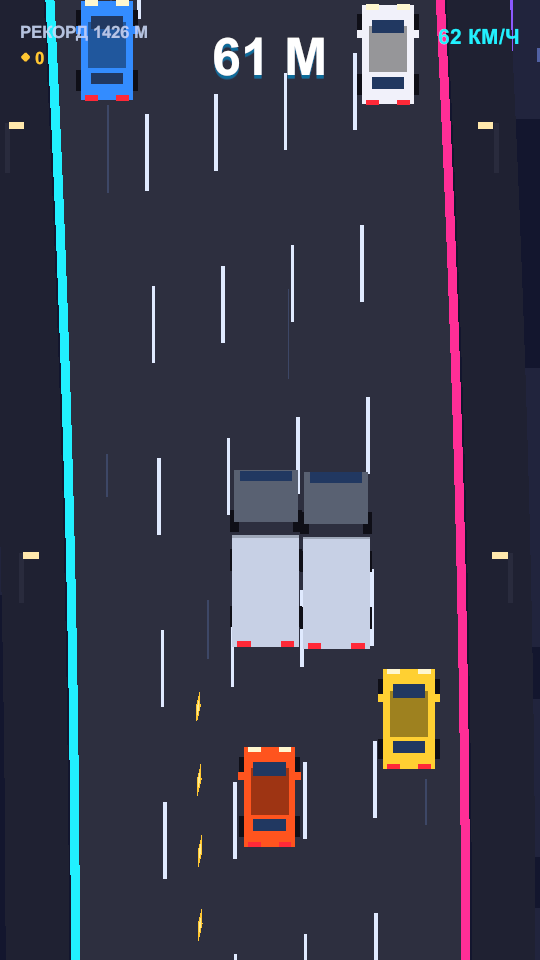
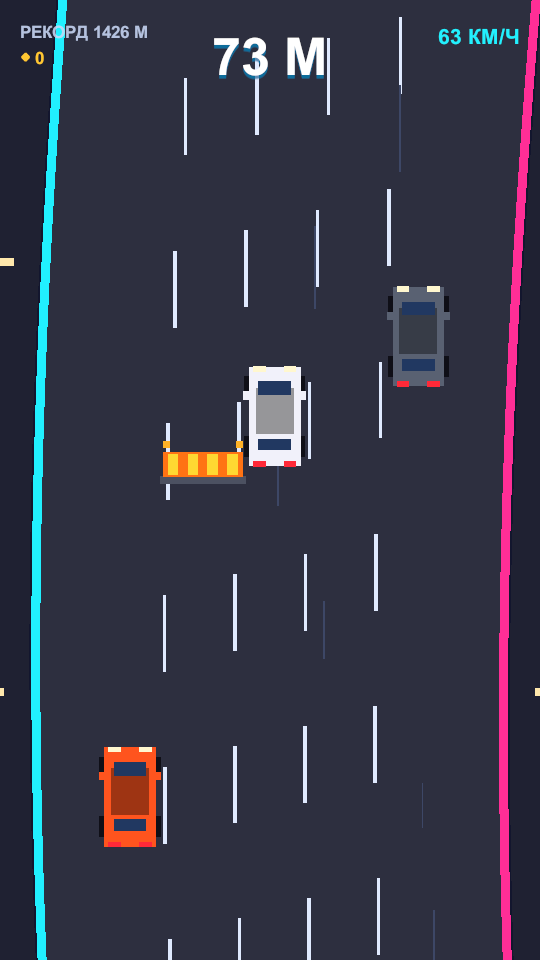
Sharper, more frequent turns and variable road width (v0.4.0)
- Curve constants raised: amplitude 2.8/1.6 -> 3.2/1.9, frequency 0.030/0.011 -> 0.045/0.019.
- Curves switched to cosines so every run starts on a straight section instead of mid-bend.
- New G2Path.ExtraHalfWidth / ExtraAtY: road half width oscillates from -0.30 to +1.10 m.
- Ribbon2D got RibbonSide (Both/Left/Right): the road widens on both edges, while curbs, neon borders and sidewalks follow their own shoulder.
- WorldScroller2D pushes roadside props (buildings, windows, neon strips, lamps) outward as the road widens.
- Camera now aims 4 m ahead and follows slightly faster, keeping sharp turns in frame.
- Version 0.4.0 (code 4); README and screenshots updated.

diff --git a/Assets/FiveLineRace/Scripts/G2World.cs b/Assets/FiveLineRace/Scripts/G2World.cs
@@ -18,14 +18,18 @@ namespace FiveLineRace
             G2Quad.Create(root.transform, "Backdrop", 0f, 0f, 70f, 70f, G2.Night, 9f);
 
             // --- Дорога, борта и тротуары ---
-            // Это гладкие ленты: они изгибаются вслед за поворотами трассы.
-            Ribbon2D.Create(root.transform, "Road", -G2.RoadHalfWidth, G2.RoadHalfWidth, G2.Asphalt, 5.1f);
-            Ribbon2D.Create(root.transform, "SidewalkL", -5.85f, -4.45f, G2.Sidewalk, 5.3f);
-            Ribbon2D.Create(root.transform, "SidewalkR", 4.45f, 5.85f, G2.Sidewalk, 5.3f);
+            // Это гладкие ленты: они изгибаются вслед за поворотами трассы
+            // и раздвигаются, когда дорога становится шире.
+            float hw = G2.RoadHalfWidth;
+            float walk = hw + 0.05f;
 
-            float edgeX = G2.RoadHalfWidth - 0.09f;
-            Ribbon2D.Create(root.transform, "EdgeCyan", -edgeX - 0.1f, -edgeX + 0.1f, G2.Cyan, 4.95f);
-            Ribbon2D.Create(root.transform, "EdgeMagenta", edgeX - 0.1f, edgeX + 0.1f, G2.Magenta, 4.95f);
+            Ribbon2D.Create(root.transform, "Road", -hw, hw, RibbonSide.Both, G2.Asphalt, 5.1f);
+            Ribbon2D.Create(root.transform, "SidewalkL", -walk - 1.4f, -walk, RibbonSide.Left, G2.Sidewalk, 5.3f);
+            Ribbon2D.Create(root.transform, "SidewalkR", walk, walk + 1.4f, RibbonSide.Right, G2.Sidewalk, 5.3f);
+
+            float edgeX = hw - 0.09f;
+            Ribbon2D.Create(root.transform, "EdgeCyan", -edgeX - 0.1f, -edgeX + 0.1f, RibbonSide.Left, G2.Cyan, 4.95f);
+            Ribbon2D.Create(root.transform, "EdgeMagenta", edgeX - 0.1f, edgeX + 0.1f, RibbonSide.Right, G2.Magenta, 4.95f);
 
             // --- Прерывистая разметка между полосами (4 разделителя) ---
             for (int divider = 0; divider < G2.LaneCount - 1; divider++)
@@ -113,21 +117,28 @@ namespace FiveLineRace
 
     /// <summary>
     /// Бесконечная прокрутка декораций вниз (на игрока) с зацикливанием.
-    /// Каждый элемент помнит свою базовую X и смещается по кривой трассы.
+    /// Каждый элемент помнит свою базовую X и смещается по кривой трассы;
+    /// всё, что стоит за обочиной, дополнительно отъезжает при расширении дороги.
     /// </summary>
     public class WorldScroller2D : MonoBehaviour
     {
+        /// <summary>Всё, что левее/правее этой координаты, считаем придорожным.</summary>
+        const float RoadsideX = 4.5f;
+
         Transform[] items;
         float[] baseX;
+        int[] sides;
 
         public void Init(Transform[] items)
         {
             this.items = items;
             baseX = new float[items.Length];
+            sides = new int[items.Length];
 
             for (int i = 0; i < items.Length; i++)
             {
                 baseX[i] = items[i] != null ? items[i].localPosition.x : 0f;
+                sides[i] = baseX[i] > RoadsideX ? 1 : (baseX[i] < -RoadsideX ? -1 : 0);
             }
         }
 
@@ -148,7 +159,9 @@ namespace FiveLineRace
                 p.y -= dy;
                 if (p.y < G2.WrapBottom) p.y += G2.WrapLength;
 
-                p.x = G2Path.XAtY(baseX[i], p.y, travelled);
+                p.x = baseX[i]
+                    + G2Path.OffsetAtY(p.y, travelled)
+                    + sides[i] * G2Path.ExtraAtY(p.y, travelled);
                 item.position = p;
             }
         }

diff --git a/Assets/FiveLineRace/Scripts/G2Ribbon.cs b/Assets/FiveLineRace/Scripts/G2Ribbon.cs
@@ -6,30 +6,40 @@ namespace FiveLineRace
     /// Гладкая лента вдоль оси трассы: асфальт, неоновые борта, тротуары.
     /// Меш перестраивается каждый кадр и повторяет повороты дороги.
     /// </summary>
+    public enum RibbonSide
+    {
+        None,
+        Left,
+        Right,
+        Both
+    }
+
     public class Ribbon2D : MonoBehaviour
     {
         float left;
         float right;
+        RibbonSide side;
         int segments;
         Mesh mesh;
         Vector3[] vertices;
 
         public static Ribbon2D Create(Transform parent, string name, float left, float right,
-            Color color, float z)
+            RibbonSide side, Color color, float z)
         {
             var go = new GameObject(name);
             go.transform.SetParent(parent, false);
             go.transform.localPosition = new Vector3(0f, 0f, z);
 
             var ribbon = go.AddComponent<Ribbon2D>();
-            ribbon.Init(left, right, color);
+            ribbon.Init(left, right, side, color);
             return ribbon;
         }
 
-        void Init(float leftEdge, float rightEdge, Color color)
+        void Init(float leftEdge, float rightEdge, RibbonSide ribbonSide, Color color)
         {
             left = leftEdge;
             right = rightEdge;
+            side = ribbonSide;
             segments = 96;
 
             vertices = new Vector3[(segments + 1) * 2];
@@ -80,9 +90,30 @@ namespace FiveLineRace
             {
                 float y = bottom + i * step;
                 float shift = G2Path.OffsetAtY(y, travelled);
+                float extra = G2Path.ExtraAtY(y, travelled);
 
-                vertices[i * 2] = new Vector3(left + shift, y, 0f);
-                vertices[i * 2 + 1] = new Vector3(right + shift, y, 0f);
+                float lo = left + shift;
+                float hi = right + shift;
+
+                // Дорога расширяется в обе стороны, борта и тротуары — вслед за своей обочиной.
+                if (side == RibbonSide.Both)
+                {
+                    lo -= extra;
+                    hi += extra;
+                }
+                else if (side == RibbonSide.Left)
+                {
+                    lo -= extra;
+                    hi -= extra;
+                }
+                else if (side == RibbonSide.Right)
+                {
+                    lo += extra;
+                    hi += extra;
+                }
+
+                vertices[i * 2] = new Vector3(lo, y, 0f);
+                vertices[i * 2 + 1] = new Vector3(hi, y, 0f);
             }
 
             mesh.vertices = vertices;

diff --git a/Assets/FiveLineRace/Scripts/G2Game.cs b/Assets/FiveLineRace/Scripts/G2Game.cs
@@ -116,7 +116,7 @@ namespace FiveLineRace
             shake = cam.GetComponent<CameraShake2D>();
             if (shake == null) shake = cam.gameObject.AddComponent<CameraShake2D>();
 
-            camX = G2Path.Center(0f);
+            camX = CameraTarget(0f);
             shake.BasePosition = new Vector3(camX, 0f, -10f);
             cam.transform.position = shake.BasePosition;
         }
@@ -171,13 +171,22 @@ namespace FiveLineRace
             FollowCurve();
         }
 
-        /// <summary>Камера плавно едет за поворотом трассы, игрок остаётся по центру.</summary>
+        // Камера смотрит чуть вперёд по трассе: в резком повороте машина
+        // уходит к внутренней стороне, а дорога не «улетает» из кадра.
+        const float CameraLookAhead = 4f;
+
+        static float CameraTarget(float distance)
+        {
+            return G2Path.Center(distance + CameraLookAhead);
+        }
+
+        /// <summary>Камера плавно едет за поворотом трассы.</summary>
         void FollowCurve()
         {
             if (shake == null) return;
 
-            float target = G2Path.Center(Distance);
-            float k = 1f - Mathf.Exp(-8f * Mathf.Max(0.0001f, Time.unscaledDeltaTime));
+            float target = CameraTarget(Distance);
+            float k = 1f - Mathf.Exp(-12f * Mathf.Max(0.0001f, Time.unscaledDeltaTime));
             camX = Mathf.Lerp(camX, target, k);
 
             shake.BasePosition = new Vector3(camX, 0f, -10f);
@@ -235,7 +244,7 @@ namespace FiveLineRace
 
             car.ResetToCenter();
             Distance = 0f;
-            camX = G2Path.Center(0f);
+            camX = CameraTarget(0f);
             if (shake != null) shake.BasePosition = new Vector3(camX, 0f, -10f);
             Coins = 0;
             Speed = G2.StartSpeed;

diff --git a/Assets/FiveLineRace/Scripts/G2Path.cs b/Assets/FiveLineRace/Scripts/G2Path.cs
@@ -11,8 +11,9 @@ namespace FiveLineRace
         /// <summary>Смещение осевой линии на дистанции distance.</summary>
         public static float Center(float distance)
         {
-            return Mathf.Sin(distance * G2.CurveFreq1) * G2.CurveAmp1
-                 + Mathf.Sin(distance * G2.CurveFreq2) * G2.CurveAmp2;
+            // Косинусы дают нулевой наклон на старте: заезд начинается с прямой.
+            return G2.CurveAmp1 * (Mathf.Cos(distance * G2.CurveFreq1) - 1f)
+                 + G2.CurveAmp2 * (Mathf.Cos(distance * G2.CurveFreq2) - 1f);
         }
 
         /// <summary>Смещение осевой линии на высоте y при текущей дистанции travelled.</summary>
@@ -25,6 +26,25 @@ namespace FiveLineRace
         public static float XAtY(float baseX, float y, float travelled)
         {
             return baseX + OffsetAtY(y, travelled);
+        }
+
+        /// <summary>
+        /// Дополнительная полуширина дороги: отрицательная — дорога уже,
+        /// положительная — шире (появляются широкие обочины).
+        /// </summary>
+        public static float ExtraHalfWidth(float distance)
+        {
+            float k = 0.5f
+                    + 0.35f * Mathf.Sin(distance * G2.WidthFreq)
+                    + 0.15f * Mathf.Sin(distance * G2.WidthFreq * 0.37f);
+
+            return Mathf.Lerp(-G2.WidthNarrow, G2.WidthWiden, Mathf.Clamp01(k));
+        }
+
+        /// <summary>Дополнительная полуширина дороги на высоте y.</summary>
+        public static float ExtraAtY(float y, float travelled)
+        {
+            return ExtraHalfWidth(travelled + y - G2.PlayerY);
         }
     }
 }

diff --git a/Assets/FiveLineRace/Scripts/G2Const.cs b/Assets/FiveLineRace/Scripts/G2Const.cs
@@ -28,11 +28,17 @@ namespace FiveLineRace
         public const float MenuSpeed = 11f;
 
         // --- Повороты трассы ---
-        // Две синусоиды разной длины дают чередующиеся плавные повороты.
-        public const float CurveAmp1 = 2.8f;
-        public const float CurveFreq1 = 0.030f;
-        public const float CurveAmp2 = 1.6f;
-        public const float CurveFreq2 = 0.011f;
+        // Две синусоиды разной длины дают чередующиеся резкие повороты.
+        public const float CurveAmp1 = 3.2f;
+        public const float CurveFreq1 = 0.045f;
+        public const float CurveAmp2 = 1.9f;
+        public const float CurveFreq2 = 0.019f;
+
+        // --- Сужение и расширение дороги ---
+        // Дополнительная полуширина гуляет от -WidthNarrow до +WidthWiden.
+        public const float WidthFreq = 0.012f;
+        public const float WidthNarrow = 0.30f;
+        public const float WidthWiden = 1.10f;
 
         // --- Столкновения (полуразмеры коробки игрока) ---
         public const float PlayerHalfX = 0.52f;

diff --git a/Assets/FiveLineRace/Editor/FiveLineRaceBuilder.cs b/Assets/FiveLineRace/Editor/FiveLineRaceBuilder.cs
@@ -118,7 +118,7 @@ namespace FiveLineRace.EditorTools
         {
             PlayerSettings.companyName = "Fallt Games";
             PlayerSettings.productName = "Five Line Race";
-            PlayerSettings.bundleVersion = "0.3.0";
+            PlayerSettings.bundleVersion = "0.4.0";
             PlayerSettings.colorSpace = ColorSpace.Linear;
 
             // Портретная ориентация.
@@ -141,7 +141,7 @@ namespace FiveLineRace.EditorTools
             // Android: IL2CPP + ARM64.
             PlayerSettings.SetScriptingBackend(NamedBuildTarget.Android, ScriptingImplementation.IL2CPP);
             PlayerSettings.Android.targetArchitectures = AndroidArchitecture.ARM64;
-            PlayerSettings.Android.bundleVersionCode = 3;
+            PlayerSettings.Android.bundleVersionCode = 4;
 
             EditorUserBuildSettings.buildAppBundle = false;
         }

diff --git a/Assets/FiveLineRace/Scripts/G2UI.cs b/Assets/FiveLineRace/Scripts/G2UI.cs
@@ -93,7 +93,7 @@ namespace FiveLineRace
             MakeText(menu, "Controls", "WINDOWS:  ←   →   ИЛИ   A / D", 30, FaintText, center, center,
                 new Vector2(0f, -520f), new Vector2(1000f, 50f));
 
-            MakeText(menu, "Version", "ПРОТОТИП · 5 ПОЛОС · 0.3", 24, new Color(0.7f, 0.76f, 0.9f, 0.3f), center, center,
+            MakeText(menu, "Version", "ПРОТОТИП · 5 ПОЛОС · 0.4", 24, new Color(0.7f, 0.76f, 0.9f, 0.3f), center, center,
                 new Vector2(0f, -700f), new Vector2(600f, 40f));
 
             // ---------- Экран аварии ----------

diff --git a/README.md b/README.md
@@ -23,7 +23,8 @@
 
 - Машинка едет автоматически, скорость растёт с 54 до 162 км/ч.
 - Пять полос, плавный переезд с креном кузова.
-- **Повороты трассы**: дорога плавно уходит влево и вправо, камера ведёт за поворотом.
+- **Повороты трассы**: дорога резко уходит влево и вправо, камера ведёт за поворотом.
+- **Сужения и расширения**: дорога становится то уже, то шире, обочины и город раздвигаются вместе с ней.
 - Трафик (легковушки, фуры), отбойники, монеты (+25 к счёту).
 - Счёт = метры + 25 за монету, рекорд сохраняется (`PlayerPrefs`, ключ `FiveLineRace.Best`).
 - Хотя бы две полосы всегда свободны.
@@ -89,6 +90,8 @@ Assets/Settings/                     — URP-профили
 - `Acceleration` — разгон;
 - `LaneWidth` — ширина полосы;
 - `OrthoSize` — масштаб камеры (больше — видно больше пространства);
-- `CurveAmp1` / `CurveFreq1`, `CurveAmp2` / `CurveFreq2` — сила и частота поворотов.
+- `CurveAmp1` / `CurveFreq1`, `CurveAmp2` / `CurveFreq2` — сила и частота поворотов;
+- `WidthFreq` — как часто дорога меняет ширину;
+- `WidthNarrow` / `WidthWiden` — насколько дорога сужается и расширяется.
 
 `G2Game.cs` — `SpawnRow()`: сколько полос перекрывать и как часто спавнить ряды.
